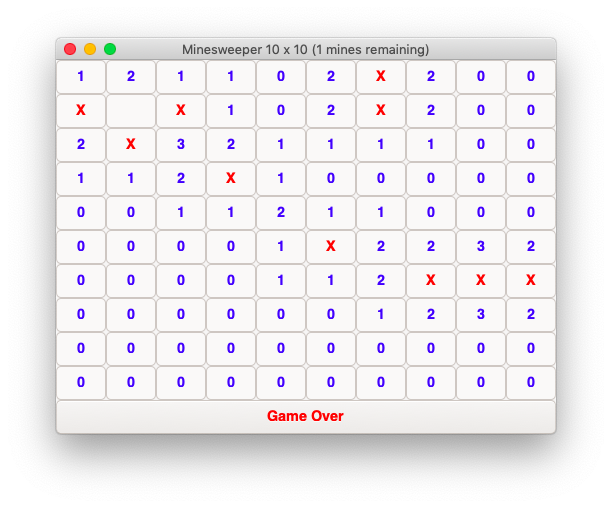
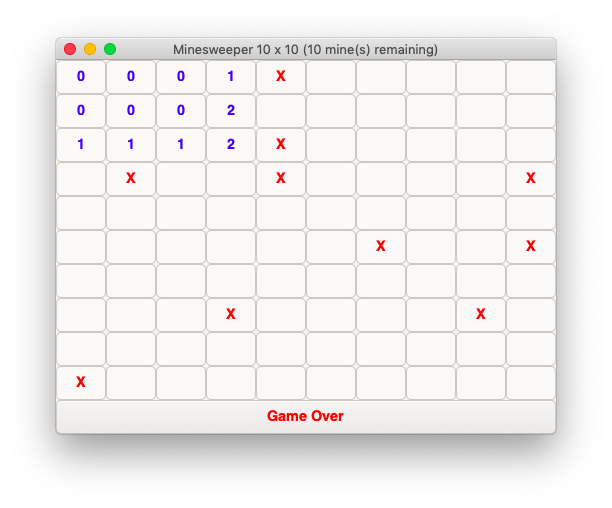
updated game lose algorithm and window title

diff --git a/gui/gui.c b/gui/gui.c
@@ -99,7 +99,7 @@ void click(GtkWidget *widget, GdkEventButton *event, gpointer user_data) {
 			} else {
 				mines_remaining++;
 			}
-			const gchar *title = g_markup_printf_escaped("Minesweeper %d x %d (%d mines remaining)", 
+			const gchar *title = g_markup_printf_escaped("Minesweeper %d x %d (%d mine(s) remaining)", 
 				data->b->width, data->b->height, mines_remaining);
 			gtk_window_set_title(GTK_WINDOW(window), title);
 		}
@@ -156,7 +156,7 @@ void activate(GtkApplication *app, gpointer user_data) {
 
 	// set window title
 	mines_remaining = b->num_mines;
-	const gchar *title = g_markup_printf_escaped("Minesweeper %d x %d (%d mines remaining)", 
+	const gchar *title = g_markup_printf_escaped("Minesweeper %d x %d (%d mine(s) remaining)", 
 		b->width, b->height, mines_remaining);
 	gtk_window_set_title(GTK_WINDOW(window), title);
 

diff --git a/src/minesweeper.c b/src/minesweeper.c
@@ -93,9 +93,8 @@ bool reveal(struct board *b, int x, int y) {
 	if (*tile != UNREVEALED || *tile == FLAG) {
 		return false;
 	} else if (is_mine(b, x, y)) {
+		// a MINE is revealed - game is lost so show the mines
 		*tile = MINE;
-
-		// mark the mines
 		for (int j = 0; j < b->num_mines; j++) {
 			int x1 = b->mines[j].x;
 			int y1 = b->mines[j].y;
@@ -137,15 +136,9 @@ bool game_won(const struct board *b) {
 bool game_lost(const struct board *b) {
 	assert(b);
 
-	for (int i = 0; i < b->num_mines; i++) {
-		int x = b->mines[i].x;
-		int y = b->mines[i].y;
-		char tile = b->grid[(y - 1) * b->width + x - 1];
+	int x = b->mines[0].x;
+	int y = b->mines[0].y;
+	char tile = b->grid[(y - 1) * b->width + x - 1];
 
-		if (tile == MINE) {
-			return true;
-		}
-	}
-
-	return false;
+	return tile == MINE;
 }

diff --git a/src/minesweeper.h b/src/minesweeper.h
@@ -61,6 +61,7 @@ bool flag(struct board *b, int x, int y);
 //	If z is 0, it also reveals all unrevealed adjacent tiles (neighbours),
 //	and (recursively) continues to do so until no more 0's are revealed.
 //	If all safe tiles have been revealed, it also flags all the mines.
+//	And if a MINE is revealed, it displays all the mines.
 // note: returns false for invalid locations.
 // requires: *b is a valid board
 // effects: some tiles may be revealed/flagged
@@ -81,8 +82,7 @@ bool game_won(const struct board *b);
 // game_lost(b) returns true if there are any MINEs on board b.
 //	Returns false otherwise.
 // requires: *b is a valid board
-// effects: displays all the mines
-// time: O(m) where m is the number of mines in b
+// time: O(1)
 
 bool game_lost(const struct board *b);
 
